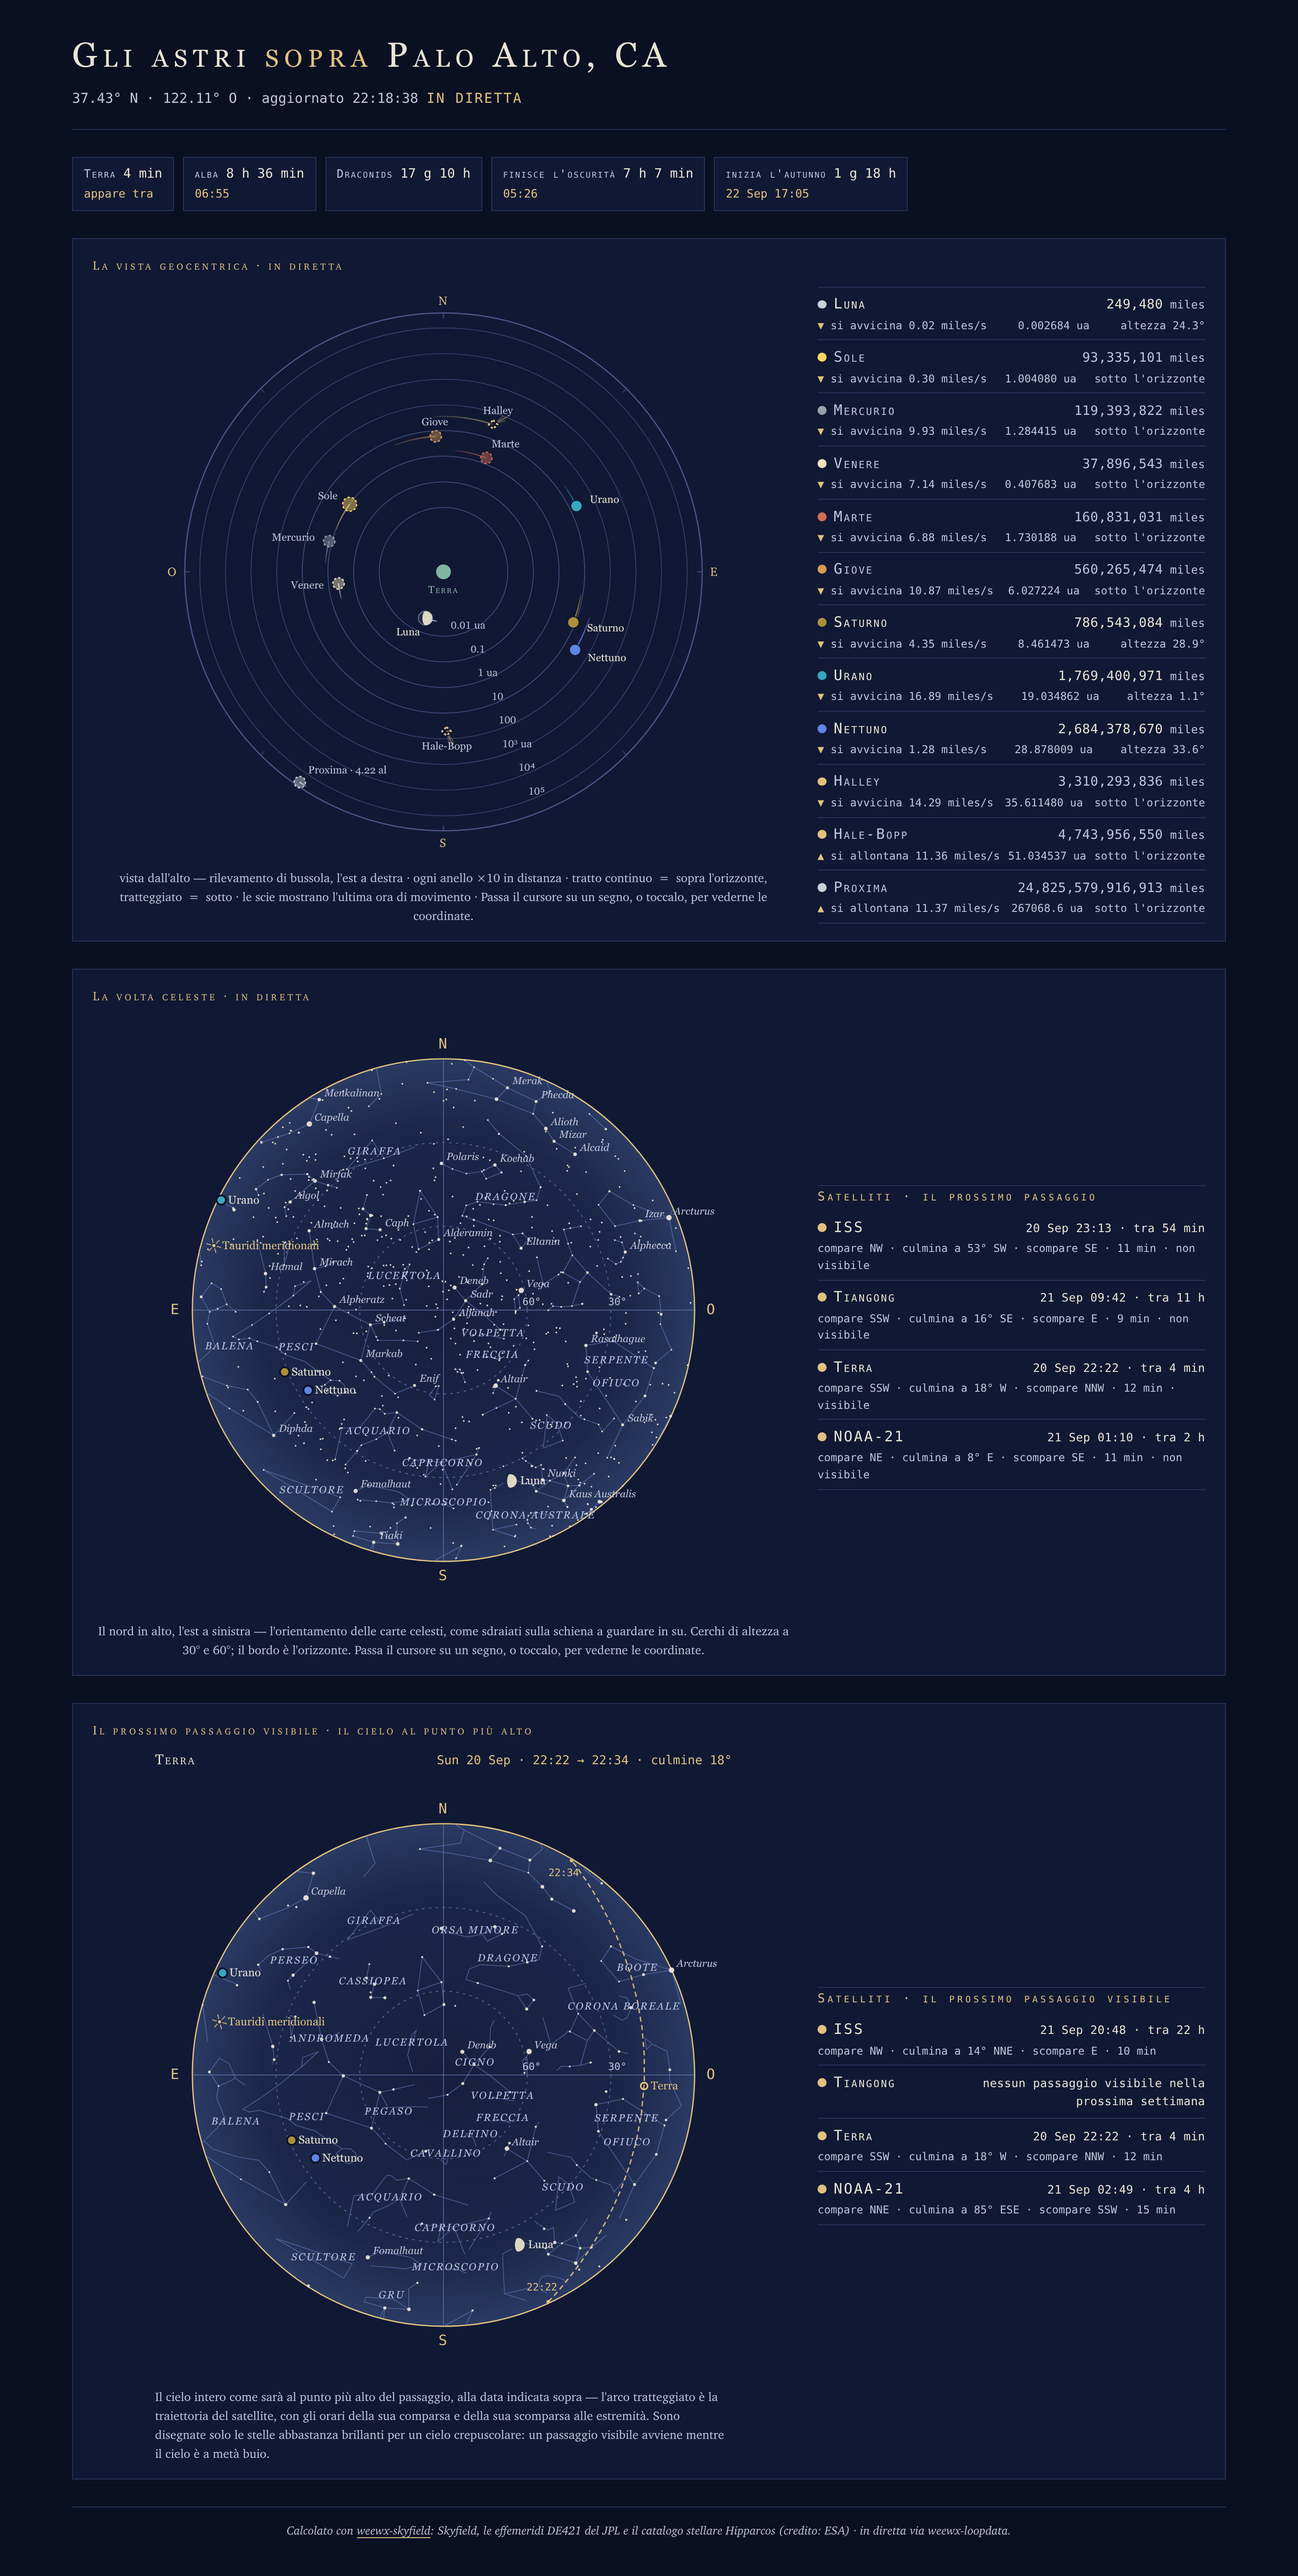
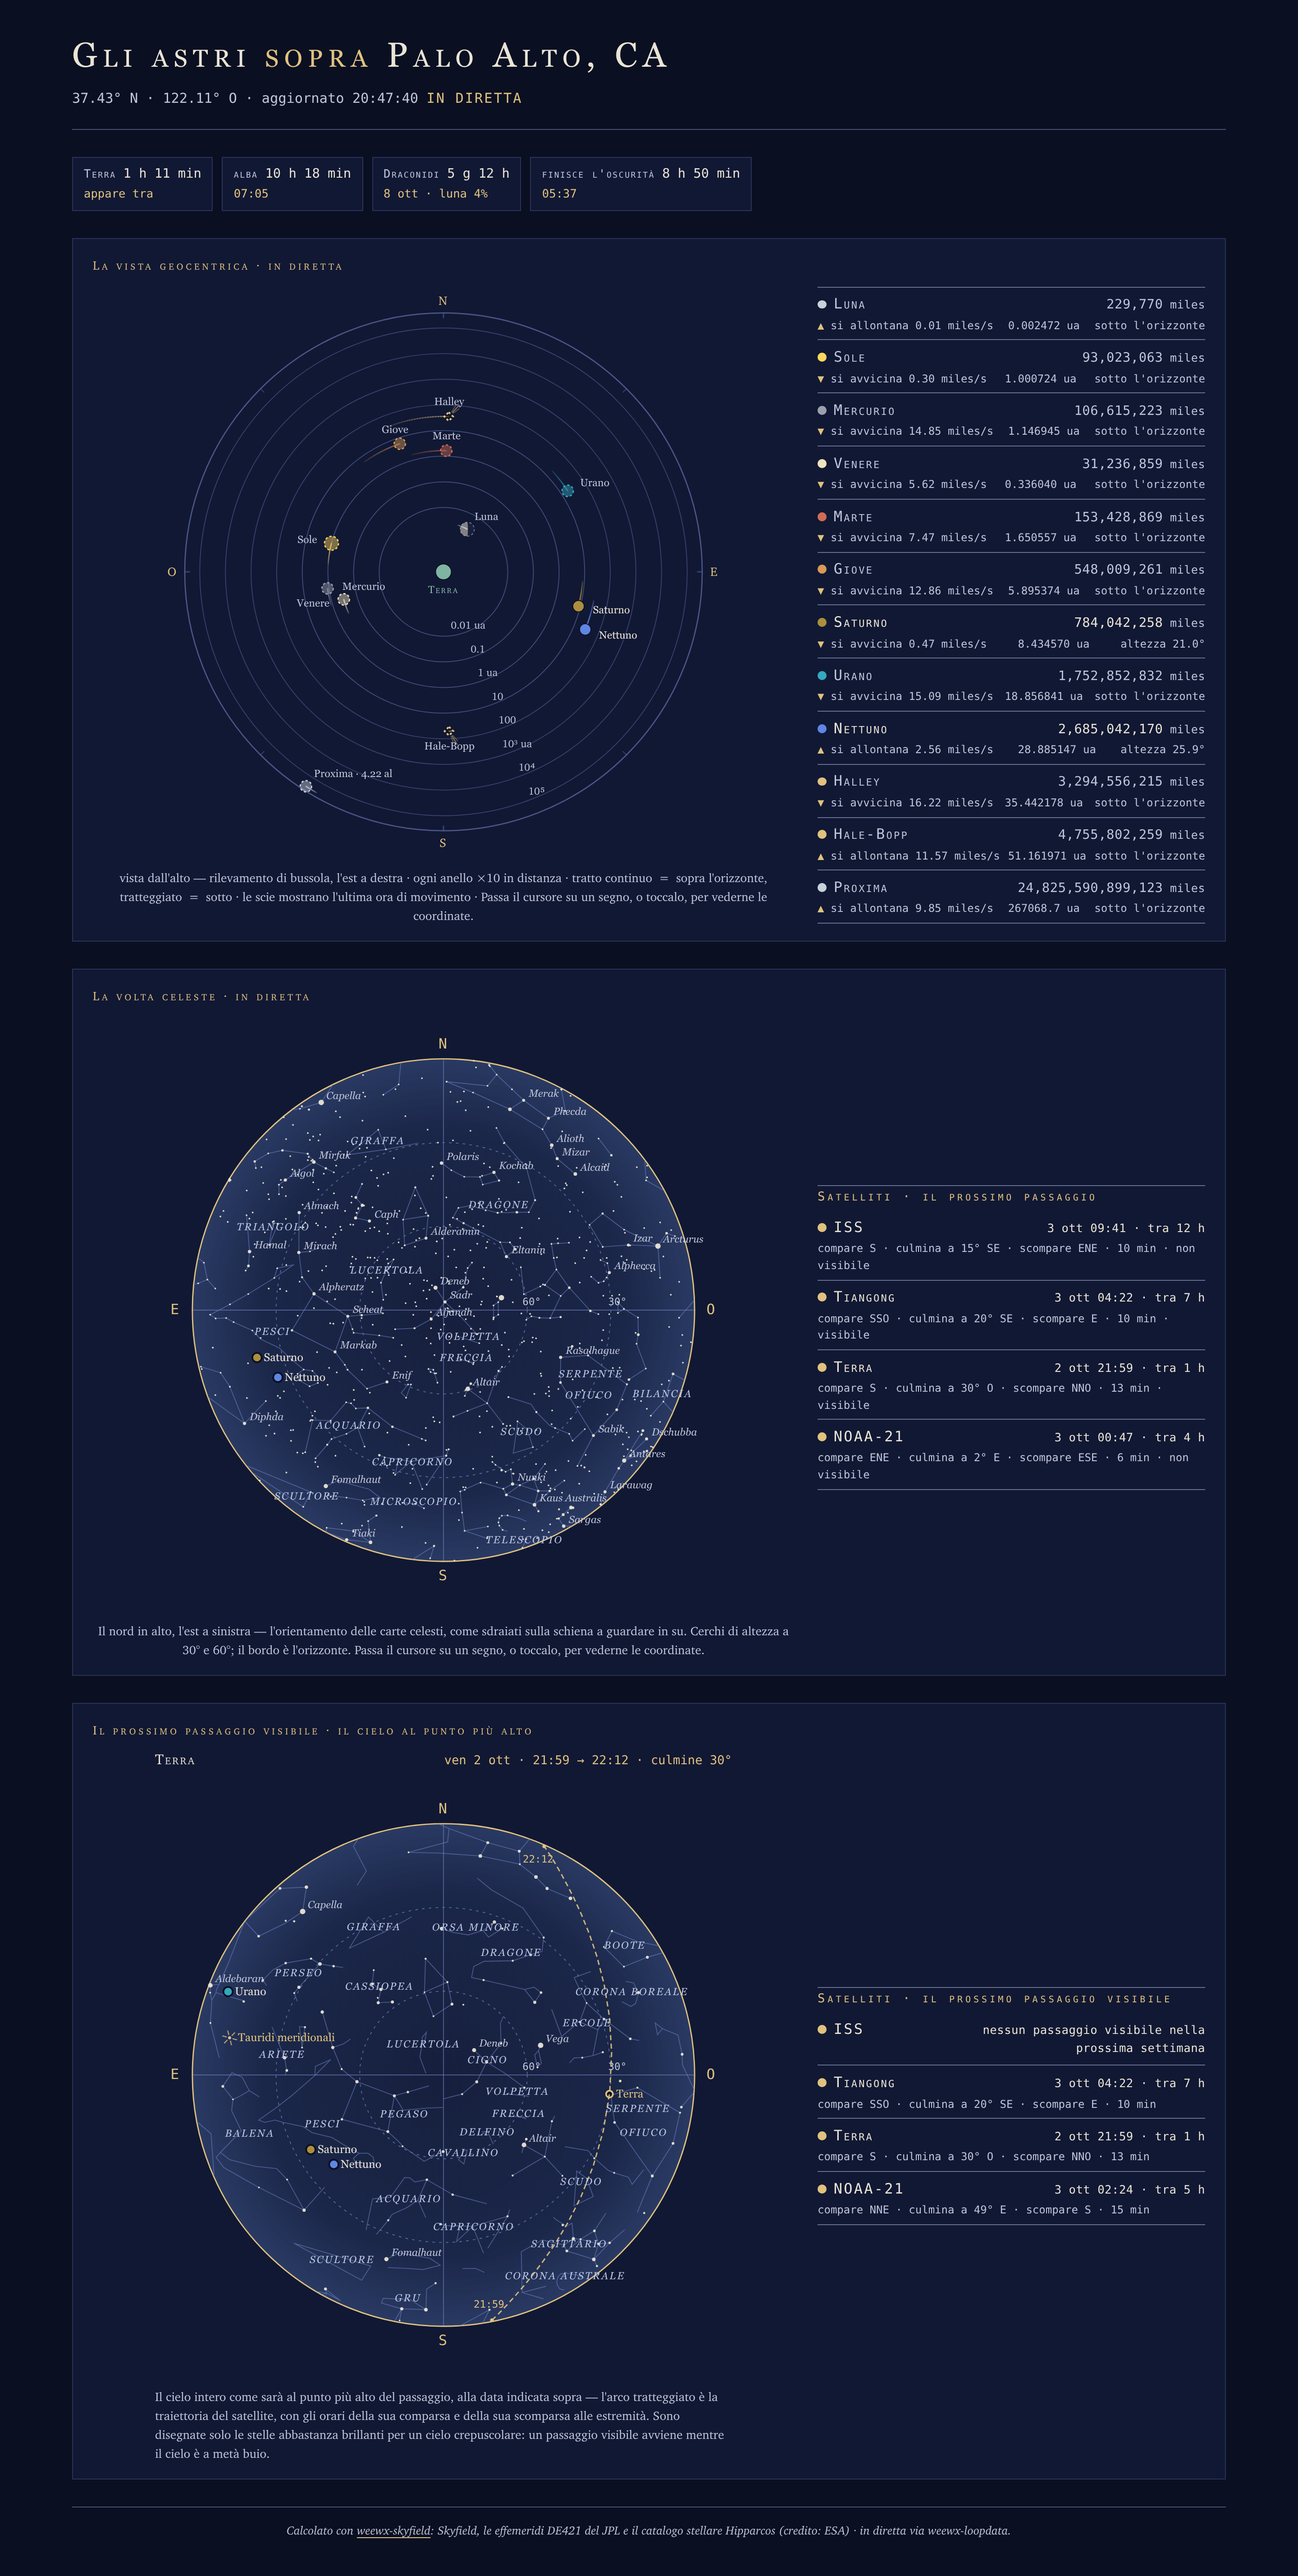
Date 9.7.1 for its release today; reshoot the night-plate stills and the Geocentric dial so the roster's lines show as 9.7.1 draws them, and describe the new sky in the manual's caption for the full-page shot.

diff --git a/docs/index.md b/docs/index.md
@@ -51,11 +51,11 @@ page you leave open, on which everything moves.
 It is the bundled `Celestial` skin: a row of countdown chips over three
 panels — the Geocentric dial, the live sky dome, and the Next Visible Pass
 chart.  Here it is entire, in the bundled sample report (Palo Alto,
-late evening on 20 September 2026 — the moon, Saturn and Neptune up and
-trailing their wake with Uranus just clearing the horizon, the sun,
-Mercury, Venus, Mars and Jupiter dashed below with comet Halley beside
-Jupiter, Proxima Centauri alone at the rim, Terra's evening pass five
-minutes off in the first chip, and every odometer ticking):
+evening on 2 October 2026 — Saturn and Neptune up and trailing their
+wake, the moon, the sun, Mercury, Venus, Mars, Jupiter and Uranus dashed
+below with comet Halley out beyond Jupiter and Mars, Proxima Centauri
+alone at the rim, Terra's evening pass an hour off in the first chip, the
+Draconids five days out under a 4% moon, and every odometer ticking):
 
 ![The Celestial page](https://raw.githubusercontent.com/chaunceygardiner/weewx-celestial/master/CelestialSampleReport.png)
 

diff --git a/changes.md b/changes.md
@@ -1,6 +1,6 @@
 # weewx-celestial change history
 
-## 9.7.1 2026/09/25
+## 9.7.1 2026/10/02
 - ACTION REQUIRED, for a skin of your own that embeds these panels: after
   upgrading, RE-COPY celestial.css from skins/Celestial/ into your skin
   and restart WeeWX.  Your skin keeps its own copy of that file, and
